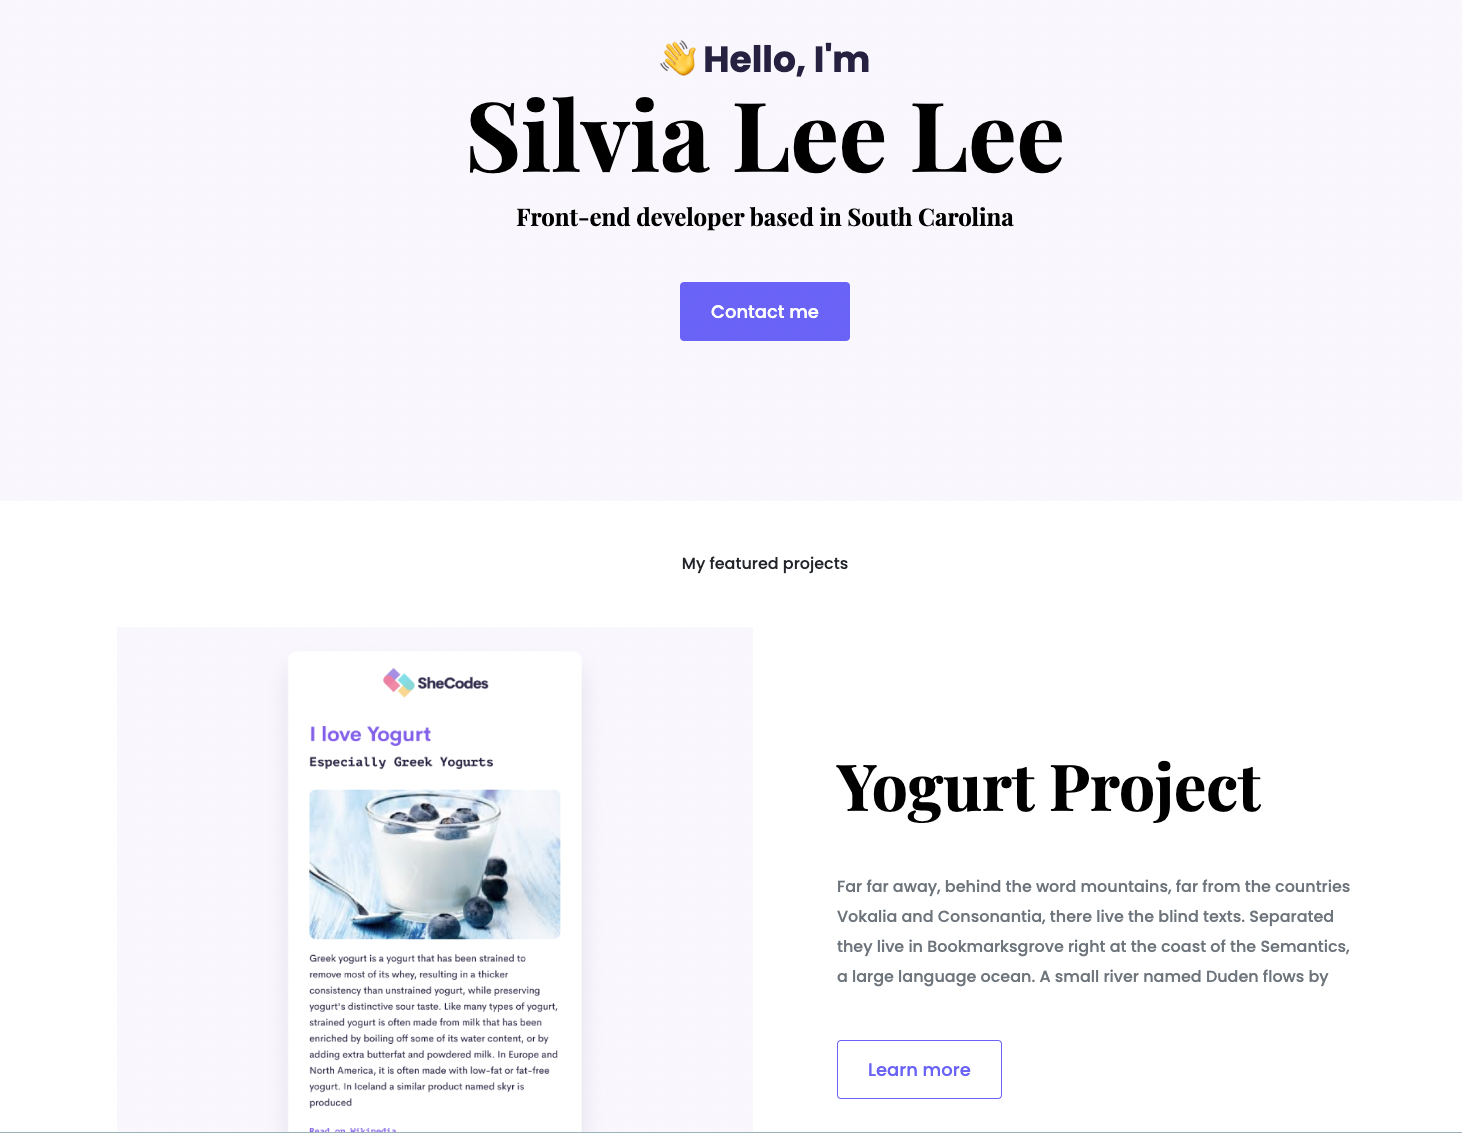
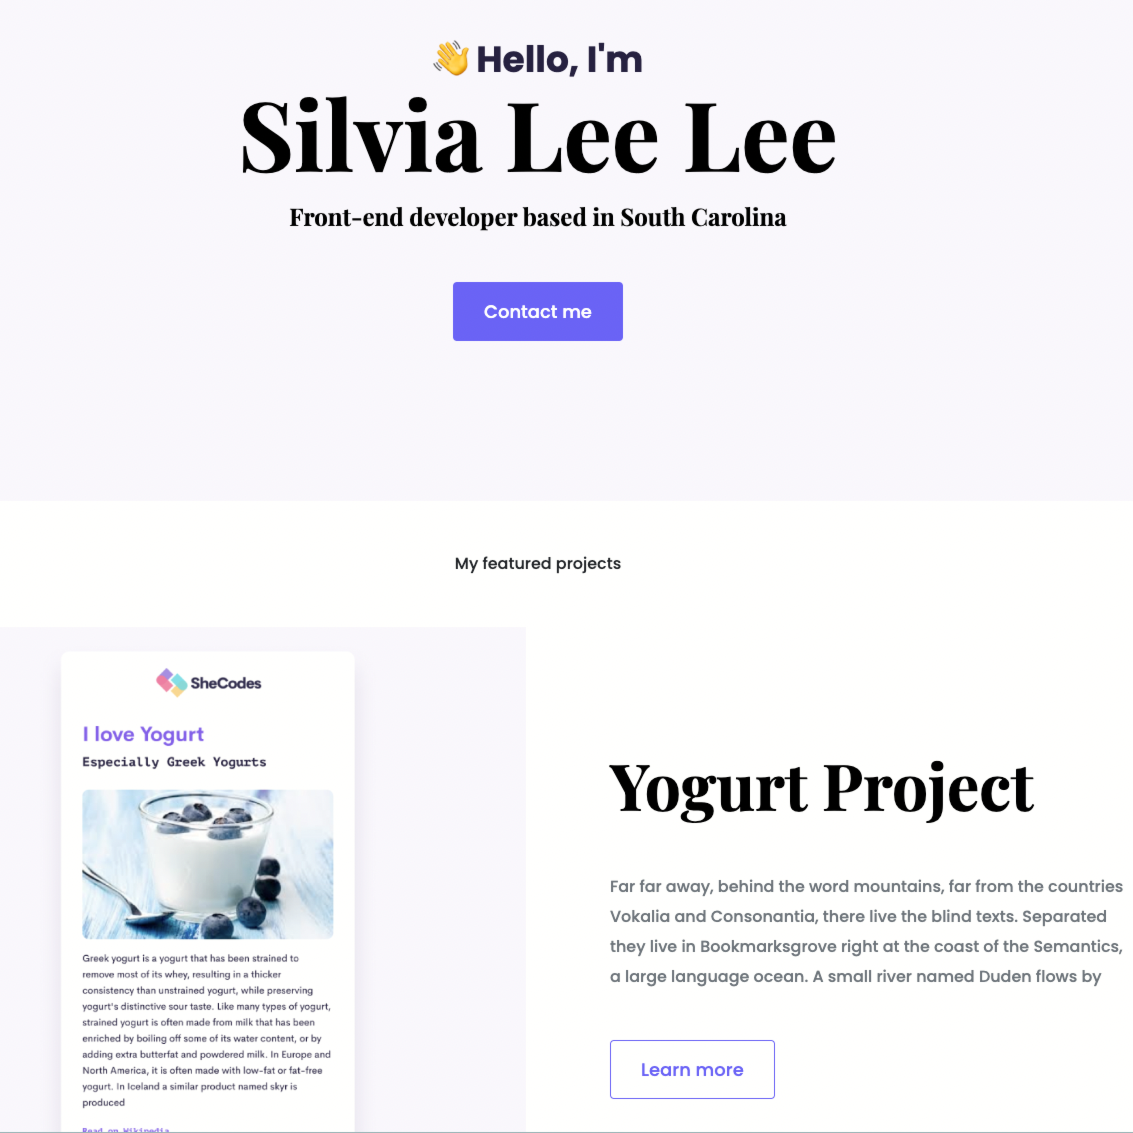
changed pictures to be all the same sizes

diff --git a/index.html b/index.html
@@ -93,15 +93,15 @@
           <div class="col-md-6 text-end border rounded main-border ps-2 mt-2">
             <div class="mt-3">
               <img
-                src="/images/me.jpeg"
+                src="/images/me.png"
                 alt=""
-                class="img-fluid p-2 profile-image rounded-4 col d-none d-md-block"
+                class="img-fluid p-2 profile-image rounded-4 col d-none d-md-block mt-5"
               />
             </div>
 
-            <h2 class="text-center">Silvia Lee Lee</h2>
+            <h2 class="text-center mt-3">Silvia Lee Lee</h2>
             <h3 class="text-center">Front-end Developer</h3>
-            <div class="text-center pb-3">
+            <div class="text-center pb-3 mt-4">
               <a
                 href="https://twitter.com/SilviaL30597796"
                 class="social-media-links"
